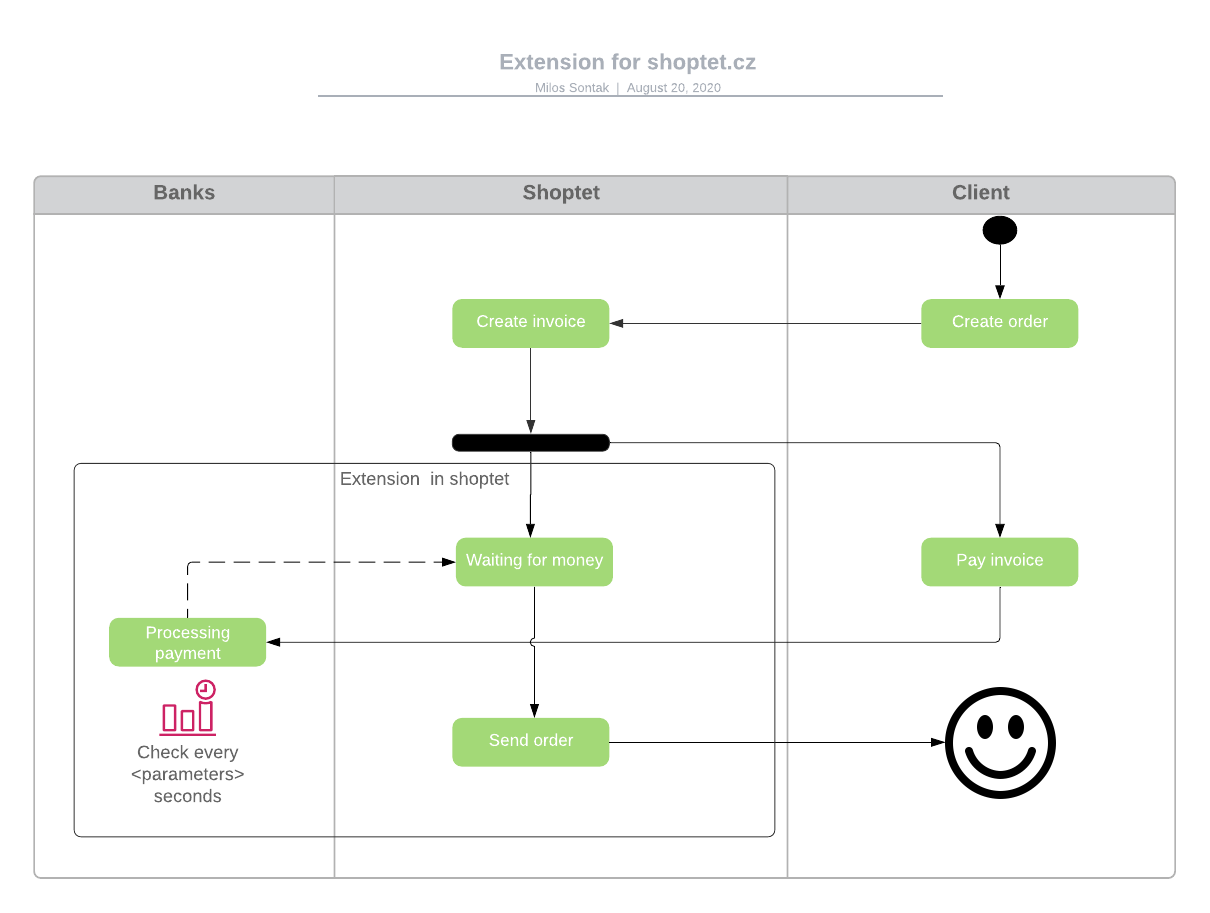
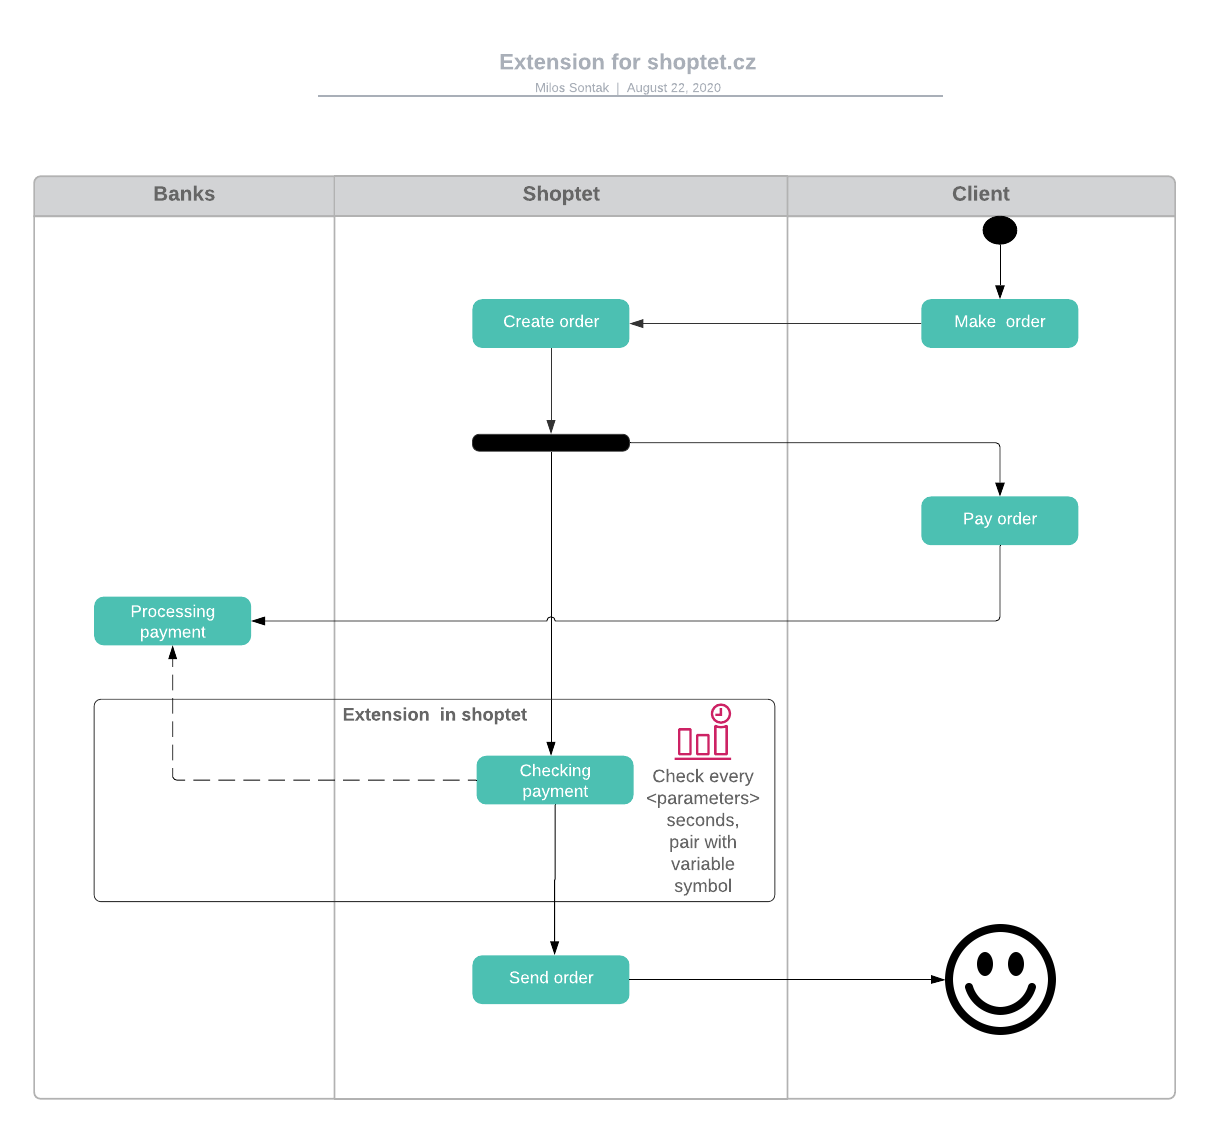
update after revision

diff --git a/README.md b/README.md
@@ -5,44 +5,53 @@
 Párování plateb pro e-shopy na platformě Shoptet (https://www.shoptet.cz)
 
 **Doplněk vám ušetří spoustu času. Čas jsou peníze a malá investice do doplňku se vám rychle vrátí v energii, kterou budete moci věnovat důležitějším věcem, než je dohledávání, zda byla objednávka už uhrazena nebo ne.**
-* Automaticky označovat také objednávky jako zaplacené 
-* Nastavit různé stavy pro jednotlivé druhy plateb (dobírka, převodem, kartou atd.), na které se má objednávka při přijetí přepnout 
-* Po spárování platby s objednávkou se u objednávky objeví zelený puntík značící, že je všechno v pořádku, zákazník zaplatil a vy můžete odeslat zboží. 
+
+* Doplněk označí objednávky jako zaplacené
+* Nastavit různé stavy pro jednotlivé druhy plateb (dobírka, převodem, kartou atd.), na které se má objednávka při přijetí přepnout. odkaz na obraaozcku níže
+* V přehledu objednávek vizuálně označí uhrazené / neuhrazené objednávky
+* K Párování dochází na zaákladě variabilního symbolu platby
 
 Podporované banky jsou
-- Fio https://www.fio.cz
-- Creditas
-- Komerční banka
+
+* Fio <https://www.fio.cz>
+* Creditas
+* Komerční banka
+* další
 
 ![Activity diagram](/img/activity.png)
 
+### Akceptační kritéria
+
 ## Requirements
-### Parametry pro nastavení doplnku  
 
-* frekvence pro zjištování nových plateb 
-* nastavení, co se mám stát s objednávkou při příchozí platbě 
+### Parametry pro nastavení doplnku
 
-TODO stavový diagram
- *  pokud je zaplaceno -> vybrat stav, na který se to má přepnout  
- *  přeplaceno -> vybrat stav, na který se to má přepnout  
+* frekvence pro zjištování nových plateb z banky
+* nastavení, co se mám stát s objednávkou při příchozí platbě
+ * pokud je zaplaceno -> vybrat stav, na který se to má přepnout  
+ * přeplaceno -> vybrat stav, na který se to má přepnout  
  * nedoplaceno -> vybrat stav, na který se to má přepnout  
- * nastavení pro banky   
-  * fio - token + návod jak ho najít  
-  * creditas - token + jak ho najít  
-  * kb - tlačítko na připojení
+
+* nastavení pro banky
+ * fio - token + návod jak ho najít  
+ * creditas - token + jak ho najít  
+ * kb - tlačítko na připojení
 
  TODO jak bude vypadat nastavení
  TODO jak bude vypadat přehled s platbou  
+ TODO testovscí eshop a testovaci token
 
-### Log doplnku   
-* budou zobrazeny informace, kdy doplněk provolával API  
-* Zobrazení v přehledu objednávek, aby uživatel byl schopný identifikovat zaplacené objednávky   
+### Log doplnku
+
+* budou zobrazeny informace, kdy doplněk provolával API
+* Zobrazení v přehledu objednávek, aby uživatel byl schopný identifikovat zaplacené objednávky
 
 ## To-Do
-* vyřešit, pokud to jde na dobírku nebo kartou, řešit pouze u plateb na účet  
+
+* vyřešit, pokud to jde na dobírku nebo kartou, řešit pouze u plateb na účet
 * Vytvořit nápovědu  
 
-
 ## Documentation
-* Dokumentace shoptet: https://developers.shoptet.com  
-* Dokumentace Fio: https://www.fio.cz/docs/cz/API_Bankovnictvi.pdf  
+
+* Dokumentace shoptet: https://developers.shoptet.com
+* Dokumentace Fio: https://www.fio.cz/docs/cz/API_Bankovnictvi.pdf
